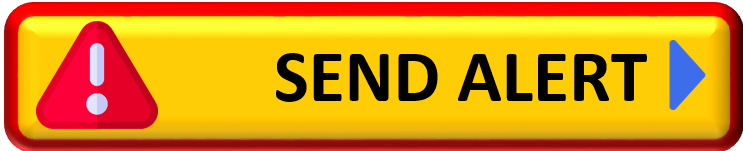
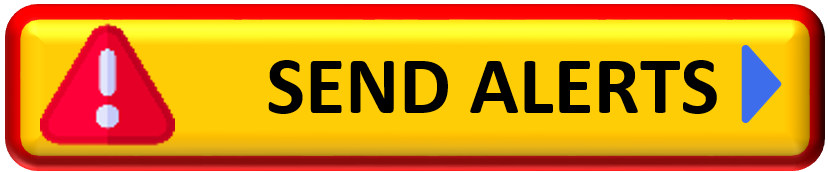
added new  buttons

diff --git a/Electrica/main.py b/Electrica/main.py
@@ -52,6 +52,20 @@ def homeWindow():
     button_readings = Button(home, image=readings_image, borderwidth="0")
     button_readings.place(x=530, y=170)
 
+    generatebill_size = Image.open("Images/generatebill_btn.png")
+    generatebill_resized = generatebill_size.resize((220, 50), Image.ANTIALIAS)
+    generatebill_image = ImageTk.PhotoImage(generatebill_resized)
+    Label(image=generatebill_image)
+    button_generatebill = Button(home, image=generatebill_image, borderwidth="0")
+    button_generatebill.place(x=530, y=240)
+
+    sendalert_size = Image.open("Images/sendalert_btn.png")
+    sendalert_resized = sendalert_size.resize((220, 50), Image.ANTIALIAS)
+    sendalert_image = ImageTk.PhotoImage(sendalert_resized)
+    Label(image=sendalert_image)
+    button_sendalert = Button(home, image=sendalert_image, borderwidth="0")
+    button_sendalert.place(x=530, y=310)
+
     home.mainloop()
 
 
